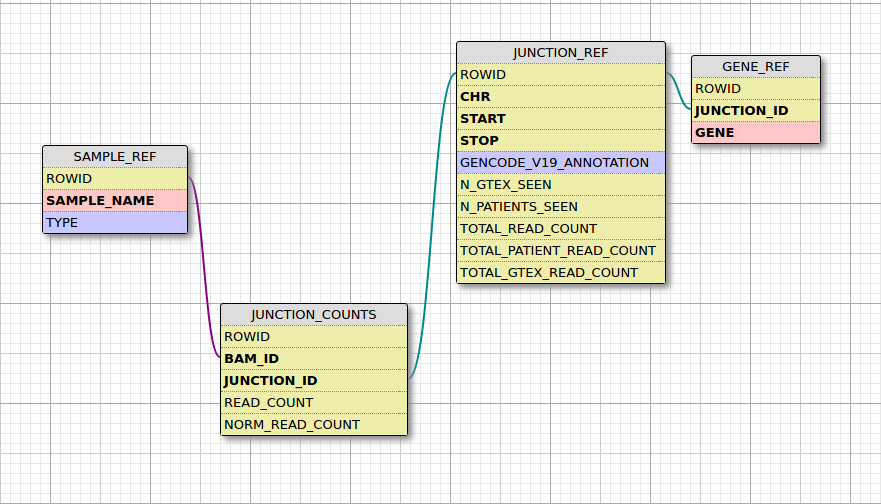
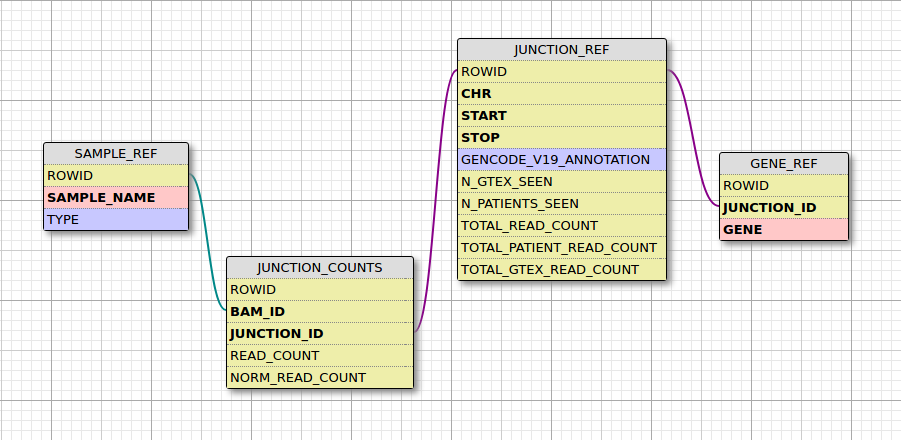
Added a seperate table for gencode junctions so that annotation only requires that we query a table of constant size. Unecessary but whatever.

diff --git a/Analysis/AddJunctionsToDatabase.py b/Analysis/AddJunctionsToDatabase.py
@@ -13,7 +13,7 @@ from datetime import datetime
 databasePath = ""
 
 def connectToDB():
-	conn = sqlite3.connect('SpliceJunction.db', timeout=20)
+	conn = sqlite3.connect('SpliceJunction.db', timeout=15)
 	cur = conn.cursor()
 
 	return conn, cur
@@ -27,11 +27,6 @@ def initializeDB():
 	conn, cur = connectToDB()
 
 	cur.execute('''PRAGMA journal_mode=WAL;''')
-
-	# if not ('wal' in cur.fetchone()):
-	# 	print("Could not set SQLite database to WAL mode. Exiting.")
-	# 	exit(1)
-
 	cur.execute('''PRAGMA foreign_keys = ON;''')
 
 	cur.execute('''create table if not exists SAMPLE_REF (
@@ -49,7 +44,7 @@ def initializeDB():
 		total_patient_read_count big int default 0,
 		total_gtex_read_count big int default 0,
 		total_read_count big int default 0,
-		primary key (chromosome, start, stop));''') # gencode_annotation = {0, 1, 2, 3, 4}
+		primary key (start, stop, chromosome));''') # gencode_annotation = {0, 1, 2, 3, 4}
 													# none, only start, only stop, both, exon skipping
 
 	cur.execute('''create table if not exists JUNCTION_COUNTS (
@@ -59,30 +54,22 @@ def initializeDB():
 		norm_read_count float,
 		foreign key(bam_id) references SAMPLE_REF(ROWID),
 		foreign key(junction_id) references JUNCTION_REF(ROWID),
-		primary key (bam_id, junction_id));''')
+		primary key (junction_id, bam_id));''')
 
 	cur.execute('''create table if not exists GENE_REF (
 		gene varchar(30) not null,
 		junction_id integer not null,
-		foreign key(junction_id) references JUNCTION_REF(ROWID)
-		primary key (gene, junction_id));''')
+		foreign key(junction_id) references JUNCTION_REF(ROWID),
+		primary key (junction_id, gene));''')
 
-	# not needed, since a b-tree of (chromosome, start, stop) will be used for (chromosome) and (chromosome, start)
-	# https://stackoverflow.com/questions/795031/how-do-composite-indexes-work
-	# cur.execute('''create index startJunction
-	# 	on JUNCTION_REF (chromosome, start);
-	# 	''')
+	cur.execute('''create table if not exists TRANSCRIPT_MODEL_JUNCTIONS (
+		chromosome tinyint not null,
+		start unsigned big int not null,
+		stop unsigned big int not null,
+		primary key (chromosome, start, stop));''')
 
-	cur.execute('''create index stopJunction
-		on JUNCTION_REF (chromosome, stop);
-		''')
-
-	cur.execute('''create unique index wholeJunction
-		on JUNCTION_REF (chromosome, start, stop);
-		''')
-
-	cur.execute('''create unique index sample_junction
-		on JUNCTION_COUNTS (bam_id, junction_id);
+	cur.execute('''create index if not exists stopJunction
+		on TRANSCRIPT_MODEL_JUNCTIONS (chromosome, stop);
 		''')
 
 	commitAndClose(conn)
@@ -95,7 +82,7 @@ def getJunctionID(cur, chrom, start, stop):
 
 	# check if start and stop are apart of an existing gencode annotation
 	cur.execute('''select ROWID, gencode_annotation from JUNCTION_REF where 
-		chromosome is ? and 
+		chromosome is ? and
 		start is ? and 
 		stop is ?;''', (chrom, start, stop))
 	res = cur.fetchone()
@@ -104,15 +91,13 @@ def getJunctionID(cur, chrom, start, stop):
 		ROWID, annotation = res
 	else: # if no such junction determine annotation of new junction: novel junction, only one annotated or a case of exon skipping?
 		
-		cur.execute('''select * from JUNCTION_REF where 
-			gencode_annotation is 3 and 
-			chromosome is ? and 
+		cur.execute('''select * from TRANSCRIPT_MODEL_JUNCTIONS where 
+			chromosome is ? and
 			start is ?;''', (chrom, start))
 		isStartAnnotated = cur.fetchone()
 
-		cur.execute('''select * from JUNCTION_REF where 
-			gencode_annotation is 3 and 
-			chromosome is ? and 
+		cur.execute('''select * from TRANSCRIPT_MODEL_JUNCTIONS where 
+			chromosome is ? and
 			stop is ?;''', (chrom, stop))
 		isStopAnnotated = cur.fetchone()
 
@@ -241,9 +226,7 @@ def summarizeGeneFile(poolArguement):
 			chrom, start, stop = junction
 			reads = spliceDict[junction]
 
-			lock.acquire()
 			junction_id, annotation = getJunctionID(cur, chrom, start, stop)
-			lock.release()
 
 			try:
 				norm_read_count = normalizeReadCount(spliceDict, junction, annotation, annotated_counts)
@@ -251,14 +234,14 @@ def summarizeGeneFile(poolArguement):
 				print("Zero division error when normalizing %s:%s-%s in genefile %s.txt in sample %s with annotation %d"%(chrom, start, stop, gene, sample, annotation))
 				norm_read_count = 'null'
 
-			lock.acquire()
-			# check if gene is related to junction, add it if not
 			annotateJunctionWithGene(gene, junction_id, cur)
+
+			lock.acquire()
 			updateJunctionInformation(junction_id, bam_id, bam_type, gene, sample, reads, norm_read_count, cur)
 			lock.release()
 
 		del spliceDict, annotated_counts
-		
+	
 	commitAndClose(conn)
 
 	print ('finished ' + gene)
@@ -352,7 +335,7 @@ def parallel_process_gene_files(num_processes, bam_files, gencode_file, gene_lis
 		poolArguements.append((bamList, gene))
 
 	print ("Creating a pool with " + str(num_processes) + " processes")
-	pool = multiprocessing.Pool(initializer=makeLockGlobal, initargs=(poolLock, ), processes=int(num_processes), maxtasksperchild=1000)
+	pool = multiprocessing.Pool(initializer=makeLockGlobal, initargs=(poolLock, ), processes=int(num_processes))
 	print ('pool: ' + str(pool))
 
 	pool.map(summarizeGeneFile, poolArguements)
@@ -365,6 +348,8 @@ def annotateJunctionWithGene(gene, junction_id, cur):
 
 def addTranscriptModelJunction(chrom, start, stop, gene, cur):
 
+	cur.execute('''insert or ignore into TRANSCRIPT_MODEL_JUNCTIONS (chromosome, start, stop) values (?, ?, ?);''', (chrom, start, stop))
+
 	try:
 		cur.execute('''insert into JUNCTION_REF (chromosome, start, stop, gencode_annotation) values (?, ?, ?, ?);''', (chrom, start, stop, '3')) # 3 stands for both annotated
 		junction_id = cur.lastrowid
@@ -376,7 +361,6 @@ def addTranscriptModelJunction(chrom, start, stop, gene, cur):
 
 def storeTranscriptModelJunctions(gencode_file, enableFlanking):
 
-	initializeDB()
 	conn, cur = connectToDB()
 
 	print ('Started adding transcript_model junctions @ ' + datetime.now().strftime("%Y-%m-%d_%H:%M:%S.%f"))
@@ -397,6 +381,7 @@ def storeTranscriptModelJunctions(gencode_file, enableFlanking):
 					stopFlank = stop + offset
 					addTranscriptModelJunction(chrom, startFlank, stopFlank, gene, cur)
 
+				# helps to reduce exon skipping false positives at the cost of more transcript_model junctions
 				# generate junctions with the most extreme flanking regions of start and stop
 				addTranscriptModelJunction(chrom, (start + 1), (stop - 1), gene, cur)
 				addTranscriptModelJunction(chrom, (start - 1), (stop + 1), gene, cur)
@@ -438,6 +423,8 @@ if __name__=="__main__":
 	print ('Working in directory ' + str(os.getcwd()))
 
 	databasePath = args.db
+
+	initializeDB()
 
 	if args.addGencode:
 		print ('Storing junctions from the transcript model file ' + args.transcript_model)
